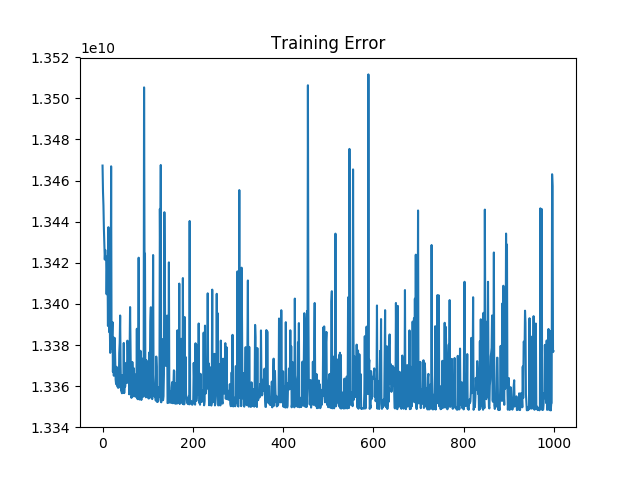
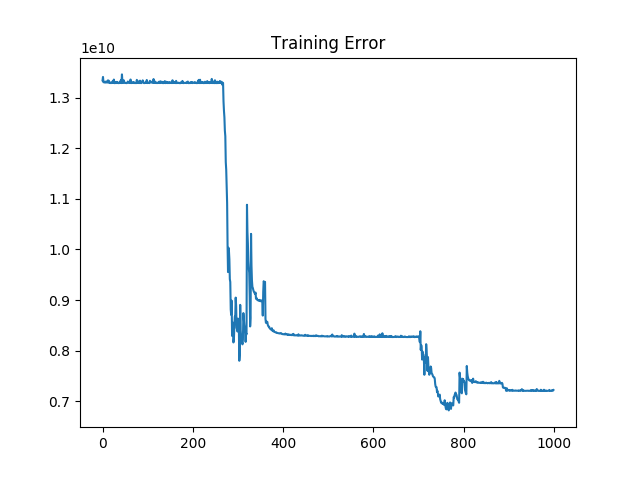
doing nothing

diff --git a/4042Prj2.py b/4042Prj2.py
@@ -3,6 +3,13 @@ import numpy as np
 import math
 import matplotlib.pyplot as plt
 from mpl_toolkits.mplot3d import Axes3D
+
+def scale(X, X_min, X_max):
+    return (X - X_min)/(X_max - X_min)
+ 
+def normalize(X, X_mean, X_std):
+    return (X - X_mean)/X_std
+
 #Read csv file and convert it to tf tensor with random shuffle done
 def read_files(filename):
 	featUseCols = (0,1,2,3,4,5,6,7)
@@ -10,24 +17,28 @@ def read_files(filename):
 	colNames = "feat0,feat1,feat2,feat3,feat4,feat5,feat6,feat7,label"
 	features = np.genfromtxt(filename, delimiter=',',autostrip=True, usecols=featUseCols)
 	labels = np.genfromtxt(filename, delimiter=',',autostrip=True, usecols=labelUseCols)
-
-	#Perform data normalization and feature scaling
-	means = np.mean(features,0)
-	std = np.mean(features)
-	normalizedFeat = data_normalization(features,means,std)
-	return normalizedFeat,labels,means,std
-
-def data_normalization(features,means,std):
-	normalizedFeat = (features - means) / std
-	return normalizedFeat
+	return features,labels
 
 #Construct trainSet and testSet according to 7:3 ratio
 def split_train_test(features,labels,trainSetNum):
 	indices = np.random.permutation(features.shape[0])
 	training_idx, test_idx = indices[:trainSetNum], indices[trainSetNum:]
 	trainLabels,testLables = labels[training_idx], labels[test_idx]
-	trainData,testData = features[training_idx,:], features[test_idx,:]
-	return trainData,testData,trainLabels,testLables
+	trainX,testX = features[training_idx,:], features[test_idx,:]
+	# scale and normalize data
+	trainX_max, trainX_min =  np.max(trainX, axis=0), np.min(trainX, axis=0)
+	testX_max, testX_min =  np.max(testX, axis=0), np.min(testX, axis=0)
+
+	trainX = scale(trainX, trainX_min, trainX_max)
+	testX = scale(testX, testX_min, testX_max)
+
+	trainX_mean, trainX_std = np.mean(trainX, axis=0), np.std(trainX, axis=0,keepdims=True)
+	testX_mean, testX_std = np.mean(testX, axis=0), np.std(testX, axis=0,keepdims=True)
+
+	trainX = normalize(trainX, trainX_mean, trainX_std)
+	testX = normalize(testX, testX_mean, testX_std)
+
+	return trainX,testX,trainLabels,testLables
 
 #Further split to k fold
 """def split_k_fold(features,labels,k):
@@ -39,37 +50,34 @@ def question1(train_feat,train_labels,test_feat,test_labels,dataSize):
 	data = np.concatenate((train_feat,train_labels.reshape(-1,1)),axis=1)
 	batches = np.array_split(data,list(np.arange(32,dataSize,32)))
 	labels = np.concatenate((train_labels,test_labels),axis=0)
-	output_max = np.amax(labels)
-	output_min = np.amin(labels)
-	print (output_max,output_min)
-	
-	with tf.name_scope('input'):
-		x = tf.placeholder('float64', shape=[None,8])
-		y = tf.placeholder('float64', shape=[None,1])
-	with tf.name_scope('weights'):
-		v = tf.Variable(np.random.randn(8,30)*.01,dtype='float64',name='h_weight')
-		#v1 = tf.Variable(tf.truncated_normal([30,20],dtype='float64'),name='h_weight')
-		#v2 = tf.Variable(tf.truncated_normal([20,20],dtype='float64'),name='h_weight')
-		w = tf.Variable(np.random.randn(30,1)*.01,dtype='float64',name='o_weight')
-	with tf.name_scope('biases'):	
-		bh = tf.Variable(tf.zeros([1],dtype='float64'),name='h_bias')
-		#bh1 = tf.Variable(tf.zeros([1],dtype='float64'),name='h_bias')
-		#bh2 = tf.Variable(tf.zeros([1],dtype='float64'),name='h_bias')
-		bo = tf.Variable(tf.zeros([1],dtype='float64'),name='o_bias')
-		syn_h = tf.matmul(x,v)+bh
-		act_h = tf.sigmoid(syn_h)
-		#syn_h1 = tf.matmul(act_h,v1)+bh1
-		#act_h1 = tf.sigmoid(syn_h1)
-		#syn_h2 = tf.matmul(act_h1,v2)+bh2
-		#act_h2 = tf.sigmoid(syn_h2)
-	with tf.name_scope('o_synaptic'):
-		syn_o = tf.matmul(act_h,w)+bo
-	with tf.name_scope('o_activation'):
-		#act_o = (output_max-output_min)*tf.sigmoid(syn_o) + output_min
-		act_o = syn_o
-	with tf.name_scope('delta'):
-		delta = tf.reduce_mean(tf.square(y-act_o))
-		accu = tf.reduce_mean(act_o-y)
+	with tf.device('/gpu:0'):
+		with tf.name_scope('input'):
+			x = tf.placeholder('float64', shape=[None,8])
+			y = tf.placeholder('float64', shape=[None,1])
+		with tf.name_scope('weights'):
+			v = tf.Variable(np.random.randn(8,30)*.01,dtype='float64',name='h_weight')
+			#v1 = tf.Variable(tf.truncated_normal([30,20],dtype='float64'),name='h_weight')
+			#v2 = tf.Variable(tf.truncated_normal([20,20],dtype='float64'),name='h_weight')
+			w = tf.Variable(np.random.randn(30,1)*.01,dtype='float64',name='o_weight')
+		with tf.name_scope('biases'):	
+			bh = tf.Variable(0.1,dtype='float64',name='h_bias')
+			#bh1 = tf.Variable(tf.zeros([1],dtype='float64'),name='h_bias')
+			#bh2 = tf.Variable(tf.zeros([1],dtype='float64'),name='h_bias')
+			bo = tf.Variable(0.1,dtype='float64',name='o_bias')
+			syn_h = tf.matmul(x,v)+bh
+			act_h = tf.sigmoid(syn_h)
+			#syn_h1 = tf.matmul(act_h,v1)+bh1
+			#act_h1 = tf.sigmoid(syn_h1)
+			#syn_h2 = tf.matmul(act_h1,v2)+bh2
+			#act_h2 = tf.sigmoid(syn_h2)
+		with tf.name_scope('o_synaptic'):
+			syn_o = tf.matmul(act_h,w)+bo
+		with tf.name_scope('o_activation'):
+			#act_o = (output_max-output_min)*tf.sigmoid(syn_o) + output_min
+			act_o = syn_o
+		with tf.name_scope('delta'):
+			delta = tf.reduce_mean(tf.square(act_o-y))
+			accu = tf.reduce_mean(act_o-y)
 	init = tf.global_variables_initializer()
 
 
@@ -110,7 +118,7 @@ def question1(train_feat,train_labels,test_feat,test_labels,dataSize):
 	plt.savefig('p_1b_sample_accuracy.png')
 	plt.show()
 
-features,labels,means,std = read_files("cal_housing.data")
+features,labels = read_files("cal_housing.data")
 trainSetNum = int(math.ceil(0.7*labels.shape[0]))
 testSetNum = labels.shape[0] - trainSetNum
 print(features.shape,labels.shape)
